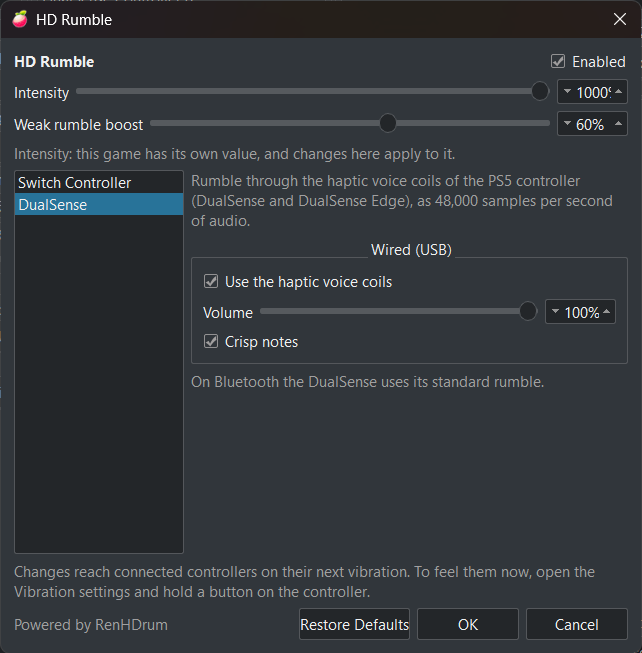
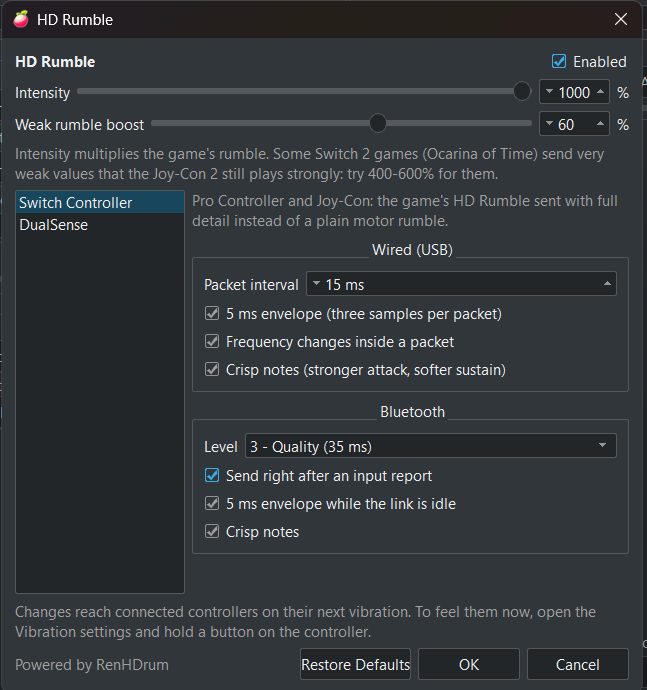
patches: percent unit as a label; new dialog screenshot
Themes that draw the spin box arrows over the text cut "1000%" off.

Feito com Claude Code

diff --git a/README.md b/README.md
@@ -127,9 +127,9 @@ Open it from **Emulation > Configure > Controls > Vibration: Configure > HD Rumb
 
    ![Configure Vibration with the HD Rumble button](docs/screenshots/vibration-dialog.png)
 
-3. The HD Rumble dialog. This one was opened with Ocarina of Time running, so **Intensity** and **Weak rumble boost** show that game's own values (1000 % and 60 %). This screenshot was taken before the percent fields were widened; `1000%` is cut off.
+3. The HD Rumble dialog, on the Switch Controller page, with **Intensity** and **Weak rumble boost** at 1000 % and 60 %, the values that suit Ocarina of Time.
 
-   ![The HD Rumble dialog on the DualSense page](docs/screenshots/hd-rumble-dialog.png)
+   ![The HD Rumble dialog on the Switch Controller page](docs/screenshots/hd-rumble-dialog.png)
 
 What each setting does:
 
